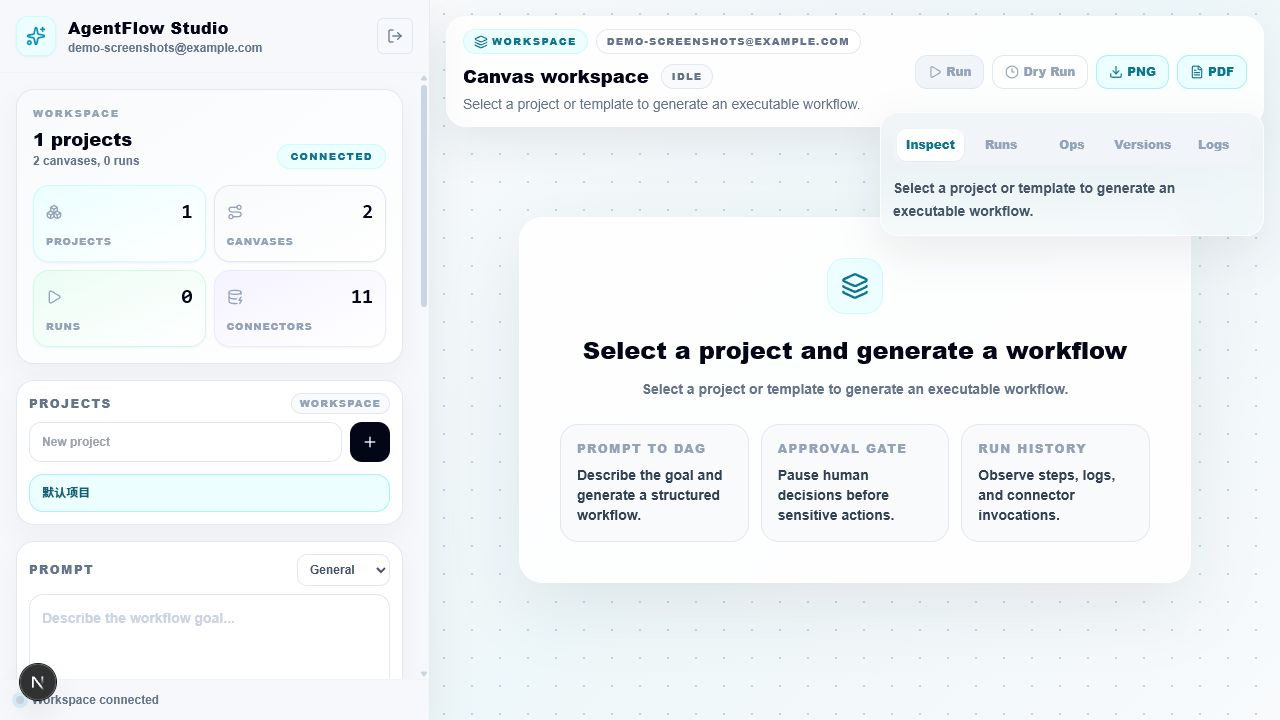
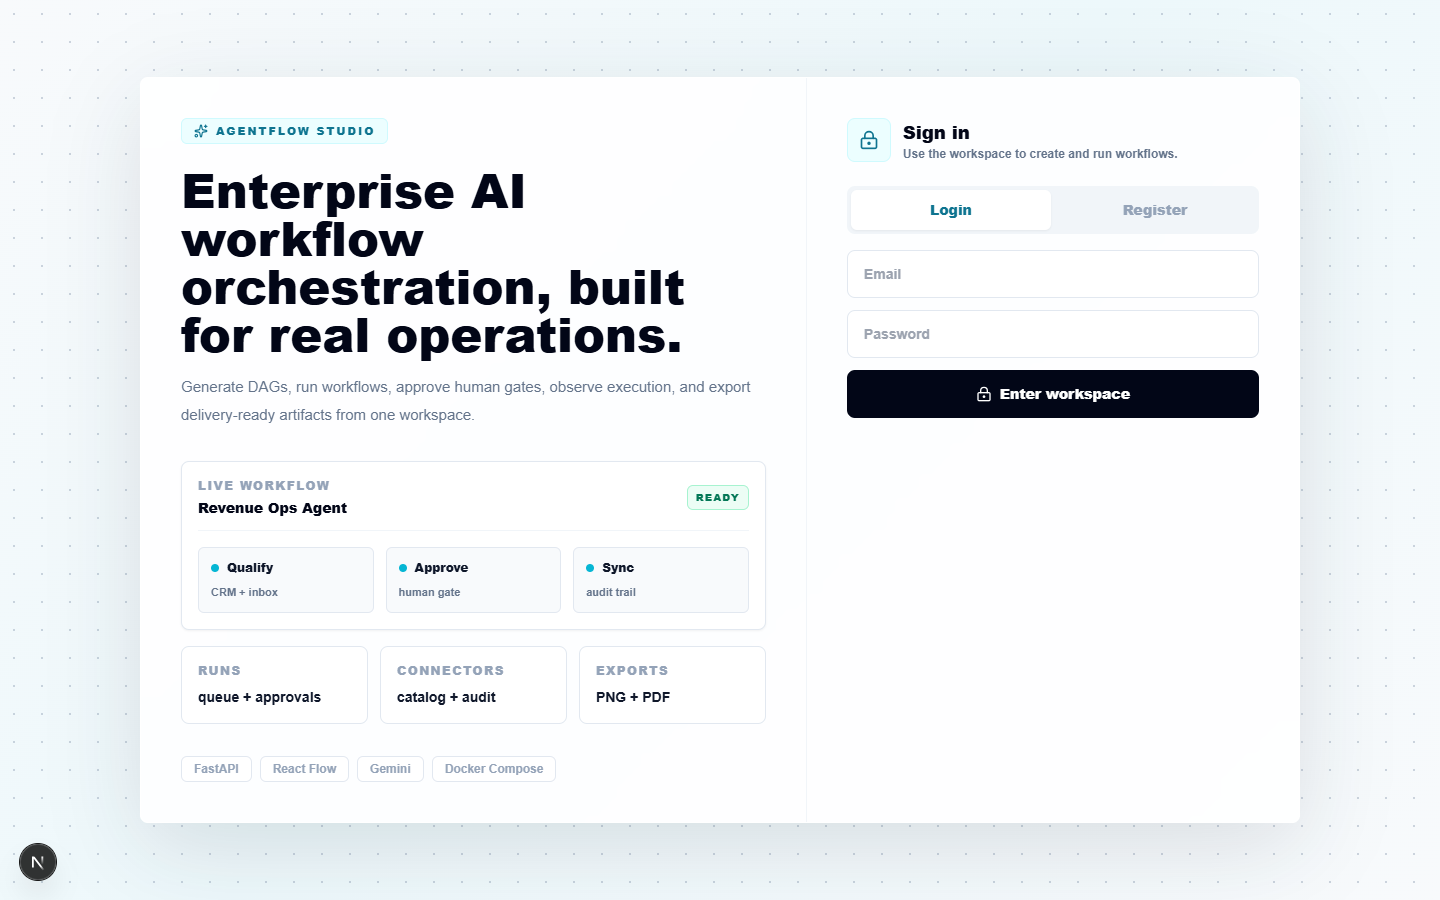
Polish studio UI and refresh screenshots

diff --git a/canvas-frontend/app/page.tsx b/canvas-frontend/app/page.tsx
@@ -648,26 +648,50 @@ export default function CanvasPage() {
 
   if (!user) {
     return (
-      <main className="relative flex h-dvh items-center justify-center overflow-hidden bg-[#f6f8fb] px-4 text-slate-900">
+      <main className="relative flex min-h-dvh items-center justify-center overflow-hidden bg-[#f6f8fb] px-4 py-6 text-slate-900">
         <div className="absolute inset-0 bg-[linear-gradient(135deg,#f8fafc_0%,#edf8fb_48%,#f8fafc_100%)]" />
         <div className="absolute inset-0 opacity-45 [background-image:radial-gradient(#94a3b8_1px,transparent_1px)] [background-size:28px_28px]" />
-        <div className="relative w-full max-w-[1160px] overflow-hidden rounded-[24px] border border-white/80 bg-white/85 shadow-[0_24px_90px_rgba(15,23,42,0.12)] backdrop-blur-xl">
+        <div className="relative w-full max-w-[1160px] overflow-hidden rounded-lg border border-white/80 bg-white/90 shadow-[0_24px_90px_rgba(15,23,42,0.12)] backdrop-blur-xl">
           <div className="grid gap-0 md:grid-cols-[1.15fr_0.85fr]">
             <div className="flex flex-col justify-between border-b border-slate-100 px-8 py-8 md:border-b-0 md:border-r md:px-10 md:py-10">
               <div>
-                <div className="inline-flex items-center gap-2 rounded-full border border-cyan-100 bg-cyan-50 px-3 py-1 text-[11px] font-black uppercase tracking-[0.18em] text-cyan-700">
+                <div className="inline-flex items-center gap-2 rounded-md border border-cyan-100 bg-cyan-50 px-3 py-1 text-[11px] font-black uppercase tracking-[0.18em] text-cyan-700">
                   <Sparkles className="h-3.5 w-3.5" />
                   AgentFlow Studio
                 </div>
-                <h1 className="mt-5 max-w-xl text-4xl font-black tracking-tight text-slate-950 md:text-5xl">Enterprise AI workflow orchestration, built for real operations.</h1>
+                <h1 className="mt-5 max-w-xl text-4xl font-black text-slate-950 md:text-5xl">Enterprise AI workflow orchestration, built for real operations.</h1>
                 <p className="mt-4 max-w-xl text-sm leading-7 text-slate-500 md:text-[15px]">Generate DAGs, run workflows, approve human gates, observe execution, and export delivery-ready artifacts from one workspace.</p>
-                <div className="mt-8 grid gap-3 sm:grid-cols-3">
+                <div className="mt-8 rounded-lg border border-slate-200 bg-white p-4 shadow-sm">
+                  <div className="mb-4 flex items-center justify-between border-b border-slate-100 pb-3">
+                    <div>
+                      <div className="text-xs font-black uppercase tracking-[0.12em] text-slate-400">Live workflow</div>
+                      <div className="mt-1 text-sm font-black text-slate-950">Revenue Ops Agent</div>
+                    </div>
+                    <span className="rounded-md border border-emerald-200 bg-emerald-50 px-2 py-1 text-[10px] font-black uppercase tracking-[0.12em] text-emerald-700">Ready</span>
+                  </div>
+                  <div className="grid gap-3 sm:grid-cols-3">
+                    {[
+                      ['Qualify', 'CRM + inbox'],
+                      ['Approve', 'human gate'],
+                      ['Sync', 'audit trail'],
+                    ].map(([title, desc]) => (
+                      <div key={title} className="rounded-md border border-slate-200 bg-slate-50 p-3">
+                        <div className="flex items-center gap-2 text-xs font-black text-slate-900">
+                          <span className="h-2 w-2 rounded-full bg-cyan-500" />
+                          {title}
+                        </div>
+                        <div className="mt-2 text-[11px] font-semibold text-slate-500">{desc}</div>
+                      </div>
+                    ))}
+                  </div>
+                </div>
+                <div className="mt-4 grid gap-3 sm:grid-cols-3">
                   {[
                     ['Runs', 'queue + approvals'],
                     ['Connectors', 'catalog + audit'],
                     ['Exports', 'PNG + PDF'],
                   ].map(([title, desc]) => (
-                    <div key={title} className="rounded-[18px] border border-slate-200 bg-white/90 p-4">
+                    <div key={title} className="rounded-lg border border-slate-200 bg-white/90 p-4">
                       <div className="text-xs font-black uppercase tracking-[0.12em] text-slate-400">{title}</div>
                       <div className="mt-2 text-sm font-semibold text-slate-900">{desc}</div>
                     </div>
@@ -675,34 +699,34 @@ export default function CanvasPage() {
                 </div>
               </div>
               <div className="mt-8 flex flex-wrap items-center gap-2 text-xs font-semibold text-slate-400">
-                <span className="rounded-full border border-slate-200 bg-white px-3 py-1">FastAPI</span>
-                <span className="rounded-full border border-slate-200 bg-white px-3 py-1">React Flow</span>
-                <span className="rounded-full border border-slate-200 bg-white px-3 py-1">Gemini</span>
-                <span className="rounded-full border border-slate-200 bg-white px-3 py-1">Docker Compose</span>
+                <span className="rounded-md border border-slate-200 bg-white px-3 py-1">FastAPI</span>
+                <span className="rounded-md border border-slate-200 bg-white px-3 py-1">React Flow</span>
+                <span className="rounded-md border border-slate-200 bg-white px-3 py-1">Gemini</span>
+                <span className="rounded-md border border-slate-200 bg-white px-3 py-1">Docker Compose</span>
               </div>
             </div>
 
             <div className="px-8 py-8 md:px-10 md:py-10">
               <div className="flex items-center gap-3">
-                <div className="flex h-11 w-11 items-center justify-center rounded-[14px] border border-cyan-100 bg-cyan-50 text-cyan-700"><LockKeyhole className="h-5 w-5" /></div>
+                <div className="flex h-11 w-11 items-center justify-center rounded-lg border border-cyan-100 bg-cyan-50 text-cyan-700"><LockKeyhole className="h-5 w-5" /></div>
                 <div>
                   <h2 className="text-lg font-black text-slate-950">Sign in</h2>
                   <p className="text-xs font-semibold text-slate-500">Use the workspace to create and run workflows.</p>
                 </div>
               </div>
-              <div className="mt-6 grid grid-cols-2 gap-1 rounded-[16px] bg-slate-100 p-1 text-sm font-black">
-                <button onClick={() => setAuthMode('login')} className={`rounded-[12px] py-2.5 ${authMode === 'login' ? 'bg-white text-cyan-700 shadow-sm' : 'text-slate-400'}`}>Login</button>
-                <button onClick={() => setAuthMode('register')} className={`rounded-[12px] py-2.5 ${authMode === 'register' ? 'bg-white text-cyan-700 shadow-sm' : 'text-slate-400'}`}>Register</button>
+              <div className="mt-6 grid grid-cols-2 gap-1 rounded-lg bg-slate-100 p-1 text-sm font-black">
+                <button onClick={() => setAuthMode('login')} className={`rounded-md py-2.5 ${authMode === 'login' ? 'bg-white text-cyan-700 shadow-sm' : 'text-slate-400'}`}>Login</button>
+                <button onClick={() => setAuthMode('register')} className={`rounded-md py-2.5 ${authMode === 'register' ? 'bg-white text-cyan-700 shadow-sm' : 'text-slate-400'}`}>Register</button>
               </div>
               <div className="mt-4 space-y-3">
-                <input value={email} onChange={(event) => setEmail(event.target.value)} placeholder="Email" className="h-12 w-full rounded-[14px] border border-slate-200 bg-white px-4 text-sm font-semibold outline-none focus:border-cyan-400 focus:ring-4 focus:ring-cyan-100" />
-                <input value={password} onChange={(event) => setPassword(event.target.value)} placeholder="Password" type="password" className="h-12 w-full rounded-[14px] border border-slate-200 bg-white px-4 text-sm font-semibold outline-none focus:border-cyan-400 focus:ring-4 focus:ring-cyan-100" />
-                <button onClick={handleAuth} disabled={loading} className="inline-flex h-12 w-full items-center justify-center gap-2 rounded-[14px] bg-slate-950 text-sm font-black text-white transition hover:bg-cyan-700 disabled:bg-slate-300">
+                <input value={email} onChange={(event) => setEmail(event.target.value)} placeholder="Email" className="h-12 w-full rounded-lg border border-slate-200 bg-white px-4 text-sm font-semibold outline-none focus:border-cyan-400 focus:ring-4 focus:ring-cyan-100" />
+                <input value={password} onChange={(event) => setPassword(event.target.value)} placeholder="Password" type="password" className="h-12 w-full rounded-lg border border-slate-200 bg-white px-4 text-sm font-semibold outline-none focus:border-cyan-400 focus:ring-4 focus:ring-cyan-100" />
+                <button onClick={handleAuth} disabled={loading} className="inline-flex h-12 w-full items-center justify-center gap-2 rounded-lg bg-slate-950 text-sm font-black text-white transition hover:bg-cyan-700 disabled:bg-slate-300">
                   {loading ? <Loader2 className="h-4 w-4 animate-spin" /> : <LockKeyhole className="h-4 w-4" />}
                   {authMode === 'login' ? 'Enter workspace' : 'Create account'}
                 </button>
               </div>
-              {error && <p className="mt-3 rounded-[14px] border border-amber-200 bg-amber-50 p-3 text-sm font-semibold text-amber-800">{error}</p>}
+              {error && <p className="mt-3 rounded-lg border border-amber-200 bg-amber-50 p-3 text-sm font-semibold text-amber-800">{error}</p>}
             </div>
           </div>
         </div>
@@ -711,12 +735,12 @@ export default function CanvasPage() {
   }
 
   return (
-    <main className="relative flex h-dvh w-screen flex-col overflow-hidden bg-[#f6f8fb] text-slate-900 antialiased md:flex-row">
-      <aside className="z-20 flex h-[62dvh] shrink-0 flex-col border-b border-slate-200/80 bg-white/92 shadow-[0_18px_44px_rgba(15,23,42,0.08)] backdrop-blur-2xl md:h-full md:w-[430px] md:border-b-0 md:border-r">
+    <main className="relative flex min-h-dvh w-screen flex-col bg-[#f6f8fb] text-slate-900 antialiased md:h-dvh md:flex-row md:overflow-hidden">
+      <aside className="z-20 flex max-h-[72dvh] shrink-0 flex-col border-b border-slate-200/80 bg-white/92 shadow-[0_18px_44px_rgba(15,23,42,0.08)] backdrop-blur-2xl md:h-full md:max-h-none md:w-[430px] md:border-b-0 md:border-r">
         <div className="border-b border-slate-100 px-4 py-4">
           <div className="flex items-center justify-between gap-4">
             <div className="flex min-w-0 items-center gap-3">
-              <div className="flex h-10 w-10 shrink-0 items-center justify-center rounded-[12px] border border-cyan-100 bg-cyan-50 text-cyan-600 shadow-sm"><Sparkles className="h-5 w-5" /></div>
+              <div className="flex h-10 w-10 shrink-0 items-center justify-center rounded-lg border border-cyan-100 bg-cyan-50 text-cyan-600 shadow-sm"><Sparkles className="h-5 w-5" /></div>
               <div className="min-w-0">
                 <h1 className="truncate text-base font-black tracking-wide text-slate-950">AgentFlow Studio</h1>
                 <p className="truncate text-xs font-semibold text-slate-500">{user.email}</p>
@@ -727,14 +751,14 @@ export default function CanvasPage() {
         </div>
 
         <div className="sidebar-scroll min-h-0 flex-1 overflow-y-auto px-4 py-4">
-          <section className="rounded-[18px] border border-slate-200 bg-gradient-to-br from-slate-50 to-white p-4 shadow-[0_12px_26px_rgba(15,23,42,0.04)]">
+          <section className="rounded-lg border border-slate-200 bg-gradient-to-br from-slate-50 to-white p-4 shadow-[0_12px_26px_rgba(15,23,42,0.04)]">
             <div className="flex items-end justify-between">
               <div>
                 <div className="text-[10px] font-black uppercase tracking-[0.18em] text-slate-400">Workspace</div>
                 <div className="mt-1 text-lg font-black text-slate-950">{projects.length} projects</div>
                 <div className="text-xs font-semibold text-slate-500">{canvases.length} canvases, {runs.length} runs</div>
               </div>
-              <div className="rounded-full border border-cyan-100 bg-cyan-50 px-3 py-1 text-[10px] font-black uppercase tracking-[0.14em] text-cyan-700">Connected</div>
+              <div className="rounded-md border border-cyan-100 bg-cyan-50 px-3 py-1 text-[10px] font-black uppercase tracking-[0.14em] text-cyan-700">Connected</div>
             </div>
             <div className="mt-4 grid grid-cols-2 gap-2">
               {[
@@ -743,7 +767,7 @@ export default function CanvasPage() {
                 { label: 'Runs', value: runs.length, icon: <Play className="h-4 w-4" /> },
                 { label: 'Connectors', value: connectors.length, icon: <DatabaseZap className="h-4 w-4" /> },
               ].map((metric, index) => (
-                <div key={metric.label} className={`rounded-[16px] border bg-gradient-to-br p-3 shadow-sm ${kpiTone(index)}`}>
+                <div key={metric.label} className={`rounded-lg border bg-gradient-to-br p-3 shadow-sm ${kpiTone(index)}`}>
                   <div className="mb-2 flex items-center justify-between">
                     <div className="text-slate-400">{metric.icon}</div>
                     <div className="font-mono text-xl font-black text-slate-950">{metric.value}</div>
@@ -754,75 +778,79 @@ export default function CanvasPage() {
             </div>
           </section>
 
-          <section className="mt-4 rounded-[18px] border border-slate-200 bg-white p-3 shadow-[0_12px_26px_rgba(15,23,42,0.04)]">
+          <section className="mt-4 rounded-lg border border-slate-200 bg-white p-3 shadow-[0_12px_26px_rgba(15,23,42,0.04)]">
             <div className="mb-2 flex items-center justify-between">
               <div className="text-xs font-black uppercase tracking-[0.12em] text-slate-500">Projects</div>
-              <span className="rounded-full border border-slate-200 bg-slate-50 px-2 py-0.5 text-[10px] font-black uppercase tracking-[0.12em] text-slate-400">Workspace</span>
+              <span className="rounded-md border border-slate-200 bg-slate-50 px-2 py-0.5 text-[10px] font-black uppercase tracking-[0.12em] text-slate-400">Workspace</span>
             </div>
             <div className="grid grid-cols-[1fr_auto] gap-2">
-              <input value={newProjectName} onChange={(event) => setNewProjectName(event.target.value)} placeholder="New project" className="h-10 rounded-[12px] border border-slate-200 px-3 text-xs font-semibold outline-none focus:border-cyan-400" />
-              <button onClick={createProject} className="flex h-10 w-10 items-center justify-center rounded-[12px] bg-slate-950 text-white" aria-label="Create project"><Plus className="h-4 w-4" /></button>
+              <input value={newProjectName} onChange={(event) => setNewProjectName(event.target.value)} placeholder="New project" className="h-10 rounded-lg border border-slate-200 px-3 text-xs font-semibold outline-none focus:border-cyan-400" />
+              <button onClick={createProject} className="flex h-10 w-10 items-center justify-center rounded-lg bg-slate-950 text-white" aria-label="Create project"><Plus className="h-4 w-4" /></button>
             </div>
             <div className="mt-3 grid gap-2">
               {projects.map((project) => (
-                <button key={project.id} onClick={() => selectProject(project.id)} className={`rounded-[14px] border px-3 py-2.5 text-left text-xs font-bold transition ${projectId === project.id ? 'border-cyan-200 bg-cyan-50 text-cyan-800' : 'border-slate-200 text-slate-600 hover:border-cyan-200 hover:bg-slate-50'}`}>{project.name}</button>
+                <button key={project.id} onClick={() => selectProject(project.id)} className={`rounded-lg border px-3 py-2.5 text-left text-xs font-bold transition ${projectId === project.id ? 'border-cyan-200 bg-cyan-50 text-cyan-800' : 'border-slate-200 text-slate-600 hover:border-cyan-200 hover:bg-slate-50'}`}>{project.name}</button>
               ))}
+              {projects.length === 0 && <div className="rounded-lg border border-dashed border-slate-200 bg-slate-50 p-3 text-xs font-semibold text-slate-400">Create a project to start a workspace.</div>}
             </div>
           </section>
 
-          <section className="mt-4 rounded-[18px] border border-slate-200 bg-white p-3 shadow-[0_12px_26px_rgba(15,23,42,0.04)]">
+          <section className="mt-4 rounded-lg border border-slate-200 bg-white p-3 shadow-[0_12px_26px_rgba(15,23,42,0.04)]">
             <div className="mb-2 flex items-center justify-between">
               <label htmlFor="prompt" className="text-xs font-black uppercase tracking-[0.12em] text-slate-500">Prompt</label>
-              <select value={profile} onChange={(event) => setProfile(event.target.value)} className="h-8 rounded-[10px] border border-slate-200 bg-white px-2 text-xs font-bold text-slate-600">
+              <select value={profile} onChange={(event) => setProfile(event.target.value)} className="h-8 rounded-md border border-slate-200 bg-white px-2 text-xs font-bold text-slate-600">
                 {profiles.map((item) => <option key={item.id} value={item.id}>{item.label}</option>)}
               </select>
             </div>
-            <textarea id="prompt" className="h-28 w-full resize-none rounded-[14px] border border-slate-200 bg-white p-3 text-sm font-semibold leading-relaxed text-slate-700 outline-none transition placeholder:text-slate-300 focus:border-cyan-400 focus:ring-4 focus:ring-cyan-100" placeholder="Describe the workflow goal..." value={prompt} onChange={(event) => setPrompt(event.target.value)} />
-            <button type="button" onClick={generateCanvas} disabled={loading || !prompt.trim() || !projectId} className="mt-3 inline-flex h-11 w-full items-center justify-center gap-2 rounded-[14px] bg-slate-950 px-4 text-sm font-black text-white shadow-[0_14px_28px_rgba(15,23,42,0.2)] transition hover:bg-cyan-700 disabled:cursor-not-allowed disabled:bg-slate-300 disabled:shadow-none">
+            <textarea id="prompt" className="h-28 w-full resize-none rounded-lg border border-slate-200 bg-white p-3 text-sm font-semibold leading-relaxed text-slate-700 outline-none transition placeholder:text-slate-300 focus:border-cyan-400 focus:ring-4 focus:ring-cyan-100" placeholder="Describe the workflow goal..." value={prompt} onChange={(event) => setPrompt(event.target.value)} />
+            <button type="button" onClick={generateCanvas} disabled={loading || !prompt.trim() || !projectId} className="mt-3 inline-flex h-11 w-full items-center justify-center gap-2 rounded-lg bg-slate-950 px-4 text-sm font-black text-white shadow-[0_14px_28px_rgba(15,23,42,0.2)] transition hover:bg-cyan-700 disabled:cursor-not-allowed disabled:bg-slate-300 disabled:shadow-none">
               {loading ? <Loader2 className="h-4 w-4 animate-spin" /> : <WandSparkles className="h-4 w-4" />}
               Generate and Save
             </button>
           </section>
 
-          <section className="mt-4 rounded-[18px] border border-slate-200 bg-white p-3 shadow-[0_12px_26px_rgba(15,23,42,0.04)]">
+          <section className="mt-4 rounded-lg border border-slate-200 bg-white p-3 shadow-[0_12px_26px_rgba(15,23,42,0.04)]">
             <div className="mb-2 text-xs font-black uppercase tracking-[0.12em] text-slate-500">Templates</div>
             <div className="grid gap-2">
               {templates.map((template) => (
-                <button key={template.id} onClick={() => applyTemplate(template)} className="rounded-[14px] border border-slate-200 p-3 text-left transition hover:border-cyan-200 hover:bg-cyan-50">
+                <button key={template.id} onClick={() => applyTemplate(template)} className="rounded-lg border border-slate-200 p-3 text-left transition hover:border-cyan-200 hover:bg-cyan-50">
                   <div className="text-xs font-black text-slate-900">{template.name}</div>
                   <div className="mt-1 text-[11px] font-semibold text-slate-500">{template.category} / {template.description}</div>
                 </button>
               ))}
+              {templates.length === 0 && <div className="rounded-lg border border-dashed border-slate-200 bg-slate-50 p-3 text-xs font-semibold text-slate-400">Templates load after sign-in completes.</div>}
             </div>
           </section>
 
-          <section className="mt-4 rounded-[18px] border border-slate-200 bg-white p-3 shadow-[0_12px_26px_rgba(15,23,42,0.04)]">
+          <section className="mt-4 rounded-lg border border-slate-200 bg-white p-3 shadow-[0_12px_26px_rgba(15,23,42,0.04)]">
             <div className="mb-2 text-xs font-black uppercase tracking-[0.12em] text-slate-500">Canvases</div>
             <div className="grid gap-2">
               {canvases.map((canvas) => (
-                <button key={canvas.id} onClick={() => openCanvas(canvas)} className={`rounded-[14px] border p-3 text-left transition ${activeCanvas?.id === canvas.id ? 'border-cyan-200 bg-cyan-50' : 'border-slate-200 hover:border-cyan-200 hover:bg-slate-50'}`}>
+                <button key={canvas.id} onClick={() => openCanvas(canvas)} className={`rounded-lg border p-3 text-left transition ${activeCanvas?.id === canvas.id ? 'border-cyan-200 bg-cyan-50' : 'border-slate-200 hover:border-cyan-200 hover:bg-slate-50'}`}>
                   <div className="text-xs font-black text-slate-900">{canvas.title}</div>
                   <div className="mt-1 text-[11px] font-semibold text-slate-500">{canvas.updated_at}</div>
                 </button>
               ))}
+              {canvases.length === 0 && <div className="rounded-lg border border-dashed border-slate-200 bg-slate-50 p-3 text-xs font-semibold text-slate-400">Saved workflows will appear here.</div>}
             </div>
           </section>
 
-          <section className="mt-4 rounded-[18px] border border-slate-200 bg-white p-3 shadow-[0_12px_26px_rgba(15,23,42,0.04)]">
+          <section className="mt-4 rounded-lg border border-slate-200 bg-white p-3 shadow-[0_12px_26px_rgba(15,23,42,0.04)]">
             <div className="mb-2 flex items-center justify-between">
               <div className="text-xs font-black uppercase tracking-[0.12em] text-slate-500">Connectors</div>
               <div className="text-[10px] font-black uppercase tracking-[0.12em] text-slate-400">Catalog</div>
             </div>
             <div className="grid max-h-64 gap-2 overflow-y-auto pr-1">
               {connectors.map((connector) => (
-                <div key={connector.id} className="rounded-[14px] border border-slate-200 bg-slate-50 p-3">
+                <div key={connector.id} className="rounded-lg border border-slate-200 bg-slate-50 p-3">
                   <div className="flex items-center justify-between gap-2">
                     <div className="text-xs font-black text-slate-900">{connector.name}</div>
-                    <span className={`rounded-full border px-2 py-0.5 text-[10px] font-black uppercase ${connector.risk_level === 'high' ? 'border-rose-200 bg-rose-50 text-rose-700' : 'border-slate-200 bg-white text-slate-500'}`}>{connector.risk_level}</span>
+                    <span className={`rounded-md border px-2 py-0.5 text-[10px] font-black uppercase ${connector.risk_level === 'high' ? 'border-rose-200 bg-rose-50 text-rose-700' : 'border-slate-200 bg-white text-slate-500'}`}>{connector.risk_level}</span>
                   </div>
                   <div className="mt-1 text-[11px] font-semibold text-slate-500">{connector.category} / {connector.auth_type}</div>
                 </div>
               ))}
+              {connectors.length === 0 && <div className="rounded-lg border border-dashed border-slate-200 bg-slate-50 p-3 text-xs font-semibold text-slate-400">Connector catalog is waiting for backend data.</div>}
             </div>
           </section>
         </div>
@@ -835,33 +863,33 @@ export default function CanvasPage() {
         </div>
       </aside>
 
-      <section className="relative min-h-0 flex-1 overflow-hidden">
+      <section className="relative min-h-[560px] flex-1 overflow-hidden md:min-h-0">
         <div className="absolute inset-0 bg-[linear-gradient(135deg,#f8fafc_0%,#eef7f9_48%,#f8fafc_100%)]" />
         <div className="absolute inset-0 opacity-45 [background-image:radial-gradient(#94a3b8_1px,transparent_1px)] [background-size:28px_28px]" />
 
-        <div className="absolute left-4 right-4 top-4 z-10 rounded-[20px] border border-white/80 bg-white/90 px-4 py-3 shadow-[0_16px_44px_rgba(15,23,42,0.08)] backdrop-blur-xl">
+        <div className="absolute left-4 right-4 top-4 z-10 rounded-lg border border-white/80 bg-white/90 px-4 py-3 shadow-[0_16px_44px_rgba(15,23,42,0.08)] backdrop-blur-xl">
           <div className="flex flex-col gap-3 lg:flex-row lg:items-center lg:justify-between">
             <div className="min-w-0">
               <div className="flex flex-wrap items-center gap-2">
-                <span className="inline-flex items-center gap-1 rounded-full border border-cyan-100 bg-cyan-50 px-2.5 py-1 text-[10px] font-black uppercase tracking-[0.16em] text-cyan-700">
+                <span className="inline-flex items-center gap-1 rounded-md border border-cyan-100 bg-cyan-50 px-2.5 py-1 text-[10px] font-black uppercase tracking-[0.16em] text-cyan-700">
                   <Layers3 className="h-3.5 w-3.5" />
                   Workspace
                 </span>
-                {activeCanvas ? <span className="rounded-full border border-slate-200 bg-slate-50 px-2.5 py-1 text-[10px] font-black uppercase tracking-[0.12em] text-slate-500">{activeCanvas.title}</span> : null}
-                <span className="rounded-full border border-slate-200 bg-white px-2.5 py-1 text-[10px] font-black uppercase tracking-[0.12em] text-slate-500">{user.email}</span>
+                {activeCanvas ? <span className="rounded-md border border-slate-200 bg-slate-50 px-2.5 py-1 text-[10px] font-black uppercase tracking-[0.12em] text-slate-500">{activeCanvas.title}</span> : null}
+                <span className="rounded-md border border-slate-200 bg-white px-2.5 py-1 text-[10px] font-black uppercase tracking-[0.12em] text-slate-500">{user.email}</span>
               </div>
               <div className="mt-2 flex items-center gap-3">
                 <h2 className="text-lg font-black text-slate-950">{activeCanvas?.title || 'Canvas workspace'}</h2>
-                <span className={`rounded-full border px-2.5 py-1 text-[10px] font-black uppercase tracking-[0.12em] ${latestRun ? statusClass(latestRun.status) : 'border-slate-200 bg-slate-50 text-slate-500'}`}>{latestRun ? latestRun.status : 'idle'}</span>
+                <span className={`rounded-md border px-2.5 py-1 text-[10px] font-black uppercase tracking-[0.12em] ${latestRun ? statusClass(latestRun.status) : 'border-slate-200 bg-slate-50 text-slate-500'}`}>{latestRun ? latestRun.status : 'idle'}</span>
               </div>
               <p className="mt-1 max-w-3xl text-sm text-slate-500">{activeCanvas?.summary || summary}</p>
             </div>
             <div className="flex flex-wrap items-center gap-2">
-              <button onClick={() => runCanvas(false)} disabled={!activeCanvas || loading} className="inline-flex items-center gap-1 rounded-[12px] border border-emerald-200 bg-emerald-50 px-3 py-2 text-xs font-black text-emerald-700 disabled:cursor-not-allowed disabled:border-slate-200 disabled:bg-slate-100 disabled:text-slate-400"><Play className="h-3.5 w-3.5" /> Run</button>
-              <button onClick={() => runCanvas(true)} disabled={!activeCanvas || loading} className="inline-flex items-center gap-1 rounded-[12px] border border-slate-200 bg-white px-3 py-2 text-xs font-black text-slate-700 disabled:cursor-not-allowed disabled:text-slate-400"><Clock3 className="h-3.5 w-3.5" /> Dry Run</button>
-              {waitingStep && <button onClick={() => approveWaitingStep(true)} disabled={loading} className="inline-flex items-center gap-1 rounded-[12px] border border-amber-200 bg-amber-50 px-3 py-2 text-xs font-black text-amber-700"><ShieldCheck className="h-3.5 w-3.5" /> Approve</button>}
-              <button onClick={exportPng} className="inline-flex items-center gap-1 rounded-[12px] border border-cyan-200 bg-cyan-50 px-3 py-2 text-xs font-black text-cyan-700"><Download className="h-3.5 w-3.5" /> PNG</button>
-              <button onClick={exportPdf} className="inline-flex items-center gap-1 rounded-[12px] border border-cyan-200 bg-cyan-50 px-3 py-2 text-xs font-black text-cyan-700"><FileText className="h-3.5 w-3.5" /> PDF</button>
+              <button onClick={() => runCanvas(false)} disabled={!activeCanvas || loading} className="inline-flex items-center gap-1 rounded-lg border border-emerald-200 bg-emerald-50 px-3 py-2 text-xs font-black text-emerald-700 disabled:cursor-not-allowed disabled:border-slate-200 disabled:bg-slate-100 disabled:text-slate-400"><Play className="h-3.5 w-3.5" /> Run</button>
+              <button onClick={() => runCanvas(true)} disabled={!activeCanvas || loading} className="inline-flex items-center gap-1 rounded-lg border border-slate-200 bg-white px-3 py-2 text-xs font-black text-slate-700 disabled:cursor-not-allowed disabled:text-slate-400"><Clock3 className="h-3.5 w-3.5" /> Dry Run</button>
+              {waitingStep && <button onClick={() => approveWaitingStep(true)} disabled={loading} className="inline-flex items-center gap-1 rounded-lg border border-amber-200 bg-amber-50 px-3 py-2 text-xs font-black text-amber-700"><ShieldCheck className="h-3.5 w-3.5" /> Approve</button>}
+              <button onClick={exportPng} className="inline-flex items-center gap-1 rounded-lg border border-cyan-200 bg-cyan-50 px-3 py-2 text-xs font-black text-cyan-700"><Download className="h-3.5 w-3.5" /> PNG</button>
+              <button onClick={exportPdf} className="inline-flex items-center gap-1 rounded-lg border border-cyan-200 bg-cyan-50 px-3 py-2 text-xs font-black text-cyan-700"><FileText className="h-3.5 w-3.5" /> PDF</button>
             </div>
           </div>
         </div>
@@ -869,20 +897,20 @@ export default function CanvasPage() {
         {hasCanvas ? (
           <ReactFlow nodes={nodes} edges={edges} nodeTypes={nodeTypes} onNodesChange={onNodesChange} onEdgesChange={onEdgesChange} onNodeClick={(_, node) => setSelectedNodeDetails(node.data.rawDetails)} onPaneClick={() => setSelectedNodeDetails(null)} fitView fitViewOptions={{ padding: 0.2 }} minZoom={0.25} maxZoom={1.5} proOptions={{ hideAttribution: true }}>
             <Background color="#d7e3ec" gap={28} size={1} />
-            <Controls className="overflow-hidden rounded-[14px] border border-slate-200 bg-white shadow-lg [&_button]:border-slate-100 [&_button]:bg-white [&_svg]:fill-slate-500" />
+            <Controls className="overflow-hidden rounded-lg border border-slate-200 bg-white shadow-lg [&_button]:border-slate-100 [&_button]:bg-white [&_svg]:fill-slate-500" />
             <Panel position="top-center" className="!m-4">
-              <div className="flex flex-wrap items-center gap-2 rounded-[16px] border border-white/80 bg-white/90 px-3 py-2 text-xs font-black text-slate-600 shadow-[0_16px_44px_rgba(15,23,42,0.08)] backdrop-blur-xl">
-                <span className="inline-flex items-center gap-1 rounded-full border border-slate-200 bg-slate-50 px-2 py-1">{nodes.length} nodes</span>
-                <span className="inline-flex items-center gap-1 rounded-full border border-slate-200 bg-slate-50 px-2 py-1">{edges.length} paths</span>
-                <span className="inline-flex items-center gap-1 rounded-full border border-slate-200 bg-slate-50 px-2 py-1">{runs.length} runs</span>
-                <span className="inline-flex items-center gap-1 rounded-full border border-slate-200 bg-slate-50 px-2 py-1">{connectors.length} connectors</span>
+              <div className="flex flex-wrap items-center gap-2 rounded-lg border border-white/80 bg-white/90 px-3 py-2 text-xs font-black text-slate-600 shadow-[0_16px_44px_rgba(15,23,42,0.08)] backdrop-blur-xl">
+                <span className="inline-flex items-center gap-1 rounded-md border border-slate-200 bg-slate-50 px-2 py-1">{nodes.length} nodes</span>
+                <span className="inline-flex items-center gap-1 rounded-md border border-slate-200 bg-slate-50 px-2 py-1">{edges.length} paths</span>
+                <span className="inline-flex items-center gap-1 rounded-md border border-slate-200 bg-slate-50 px-2 py-1">{runs.length} runs</span>
+                <span className="inline-flex items-center gap-1 rounded-md border border-slate-200 bg-slate-50 px-2 py-1">{connectors.length} connectors</span>
               </div>
             </Panel>
           </ReactFlow>
         ) : (
-          <div className="relative z-10 flex h-full items-center justify-center px-6 pt-20">
-            <div className="max-w-2xl rounded-[24px] border border-white/80 bg-white/90 p-10 text-center shadow-[0_24px_70px_rgba(15,23,42,0.08)] backdrop-blur-xl">
-              <div className="mx-auto flex h-14 w-14 items-center justify-center rounded-[18px] border border-cyan-100 bg-cyan-50 text-cyan-700"><Layers3 className="h-7 w-7" /></div>
+          <div className="relative z-10 flex h-full items-center justify-center px-6 pt-32 md:pt-20">
+            <div className="max-w-2xl rounded-lg border border-white/80 bg-white/90 p-8 text-center shadow-[0_24px_70px_rgba(15,23,42,0.08)] backdrop-blur-xl md:p-10">
+              <div className="mx-auto flex h-14 w-14 items-center justify-center rounded-lg border border-cyan-100 bg-cyan-50 text-cyan-700"><Layers3 className="h-7 w-7" /></div>
               <h2 className="mt-5 text-2xl font-black text-slate-950">Select a project and generate a workflow</h2>
               <p className="mt-3 text-sm font-semibold leading-relaxed text-slate-500">{summary}</p>
               <div className="mt-6 grid gap-3 text-left sm:grid-cols-3">
@@ -891,7 +919,7 @@ export default function CanvasPage() {
                   ['Approval gate', 'Pause human decisions before sensitive actions.'],
                   ['Run history', 'Observe steps, logs, and connector invocations.'],
                 ].map(([title, desc]) => (
-                  <div key={title} className="rounded-[18px] border border-slate-200 bg-slate-50 p-4">
+                  <div key={title} className="rounded-lg border border-slate-200 bg-slate-50 p-4">
                     <div className="text-xs font-black uppercase tracking-[0.12em] text-slate-400">{title}</div>
                     <div className="mt-2 text-sm font-semibold text-slate-700">{desc}</div>
                   </div>
@@ -901,8 +929,8 @@ export default function CanvasPage() {
           </div>
         )}
 
-        <aside className="absolute right-4 top-28 z-10 hidden w-96 rounded-[18px] border border-white/80 bg-white/92 p-3 shadow-[0_16px_44px_rgba(15,23,42,0.08)] backdrop-blur-xl xl:block">
-          <div className="grid grid-cols-5 gap-1 rounded-[14px] bg-slate-100 p-1">
+        <aside className="absolute right-4 top-28 z-10 hidden w-96 rounded-lg border border-white/80 bg-white/92 p-3 shadow-[0_16px_44px_rgba(15,23,42,0.08)] backdrop-blur-xl xl:block">
+          <div className="grid grid-cols-5 gap-1 rounded-lg bg-slate-100 p-1">
             {[
               ['inspect', 'Inspect'],
               ['runs', 'Runs'],
@@ -910,11 +938,11 @@ export default function CanvasPage() {
               ['versions', 'Versions'],
               ['logs', 'Logs'],
             ].map(([key, label]) => (
-              <button key={key} onClick={() => setActiveTab(key as RightTab)} className={`rounded-[10px] py-2 text-xs font-black ${activeTab === key ? 'bg-white text-cyan-700 shadow-sm' : 'text-slate-400'}`}>{label}</button>
+              <button key={key} onClick={() => setActiveTab(key as RightTab)} className={`rounded-md py-2 text-xs font-black ${activeTab === key ? 'bg-white text-cyan-700 shadow-sm' : 'text-slate-400'}`}>{label}</button>
             ))}
           </div>
           <div className="mt-3 max-h-[62vh] overflow-y-auto text-sm font-semibold leading-relaxed text-slate-600">
-            {error ? <div className="rounded-[14px] border border-amber-200 bg-amber-50 p-3 text-amber-900">{error}</div> : null}
+            {error ? <div className="rounded-lg border border-amber-200 bg-amber-50 p-3 text-amber-900">{error}</div> : null}
             {!error && activeTab === 'inspect' && (
               selectedNodeDetails ? (
                 <div>